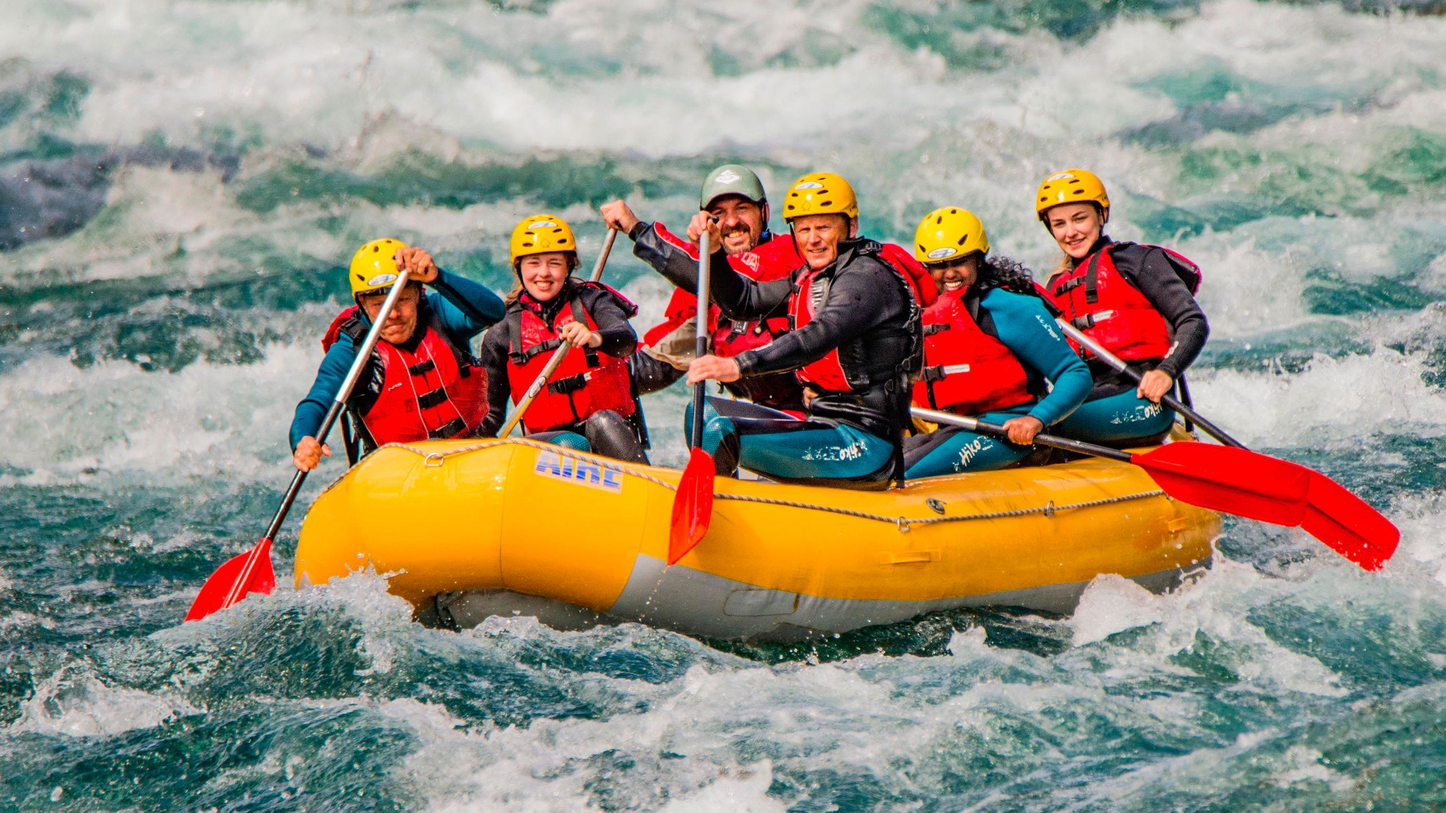
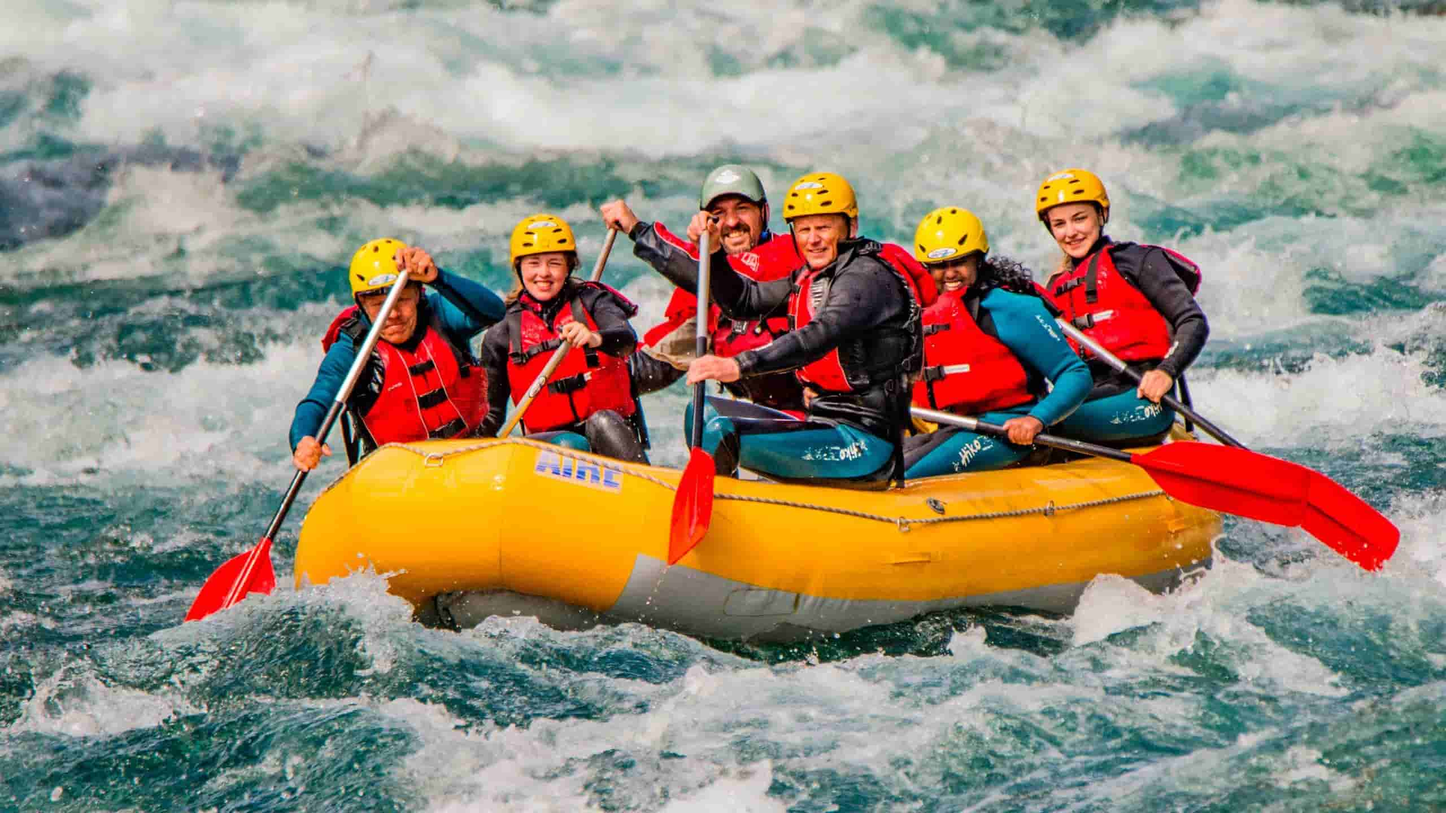
Fix W04 audit issues and update about page"

diff --git a/wwr/about.html b/wwr/about.html
@@ -26,12 +26,12 @@
         <a href="index.html">Home</a>
         <a href="about.html">About Us</a>
         <a href="trips.html">Trips</a>
-        <a href="contact.html">Contact</a>
+        <a href="contact.html">Contact Us</a>
     </nav>
 
 </header>
 
-</header>
+
 
 <main>
 
@@ -116,13 +116,12 @@
     </div>
 
 </section>
-```
+
 
 </main>
 
 <footer>
 
-```
 <p>&copy;2026 White Water Rafting | Gabriel Ruiz</p>
 
 <nav class="socialmedia">
@@ -140,7 +139,6 @@
     </a>
 
 </nav>
-```
 
 </footer>
 

diff --git a/wwr/styles/rafting.css b/wwr/styles/rafting.css
@@ -4,10 +4,9 @@
 --accent1-color: #BFD7EA;
 --accent2-color: #FF5A5F;
 
-```
 --heading-font: Arial, sans-serif;
 --body-font: Verdana, sans-serif;
-```
+
 
 }
 
@@ -163,9 +162,10 @@ gap: 10px;
 }
 
 .socialmedia a {
-border: none;
-background: transparent;
-padding: 0;
+    border: none;
+    background: transparent;
+    padding: 0;
+    text-decoration: none;
 }
 
 .socialmedia img {
